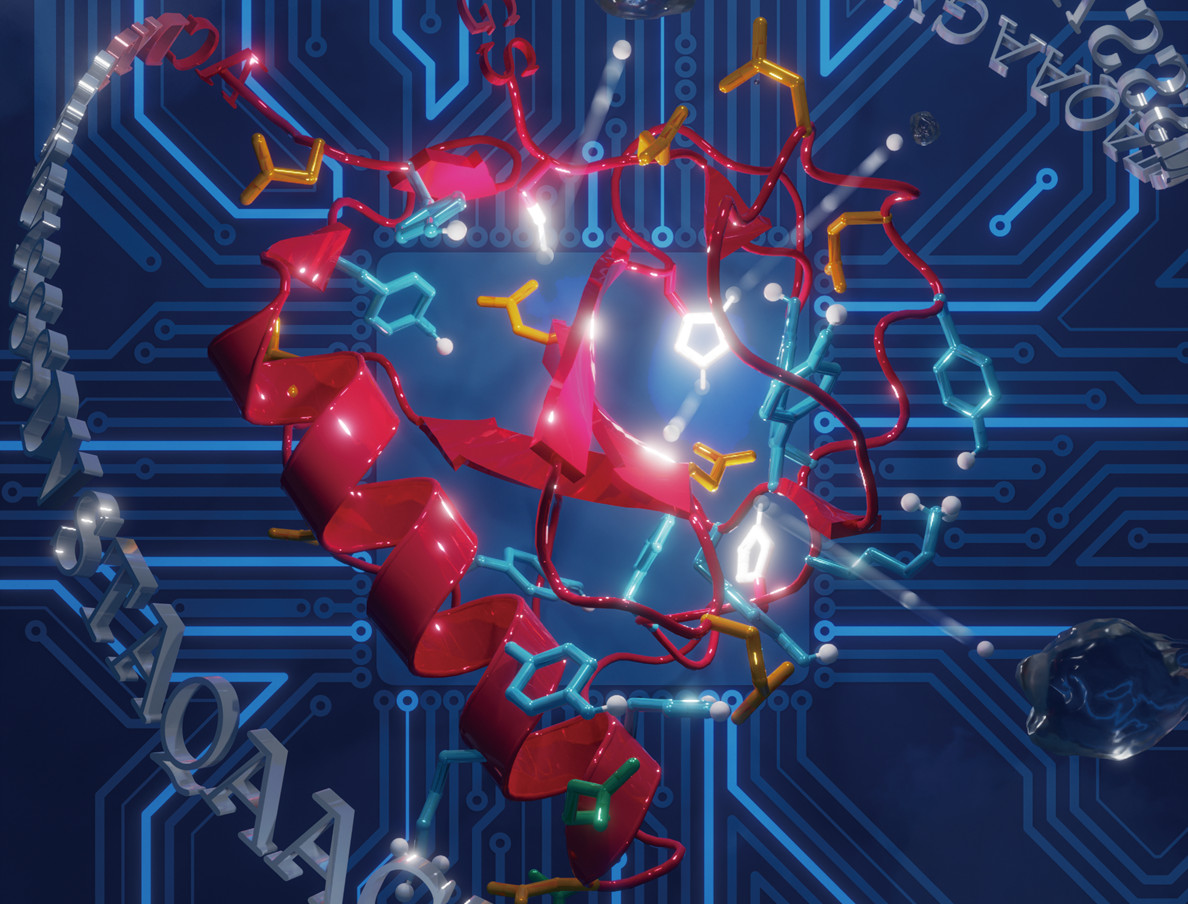
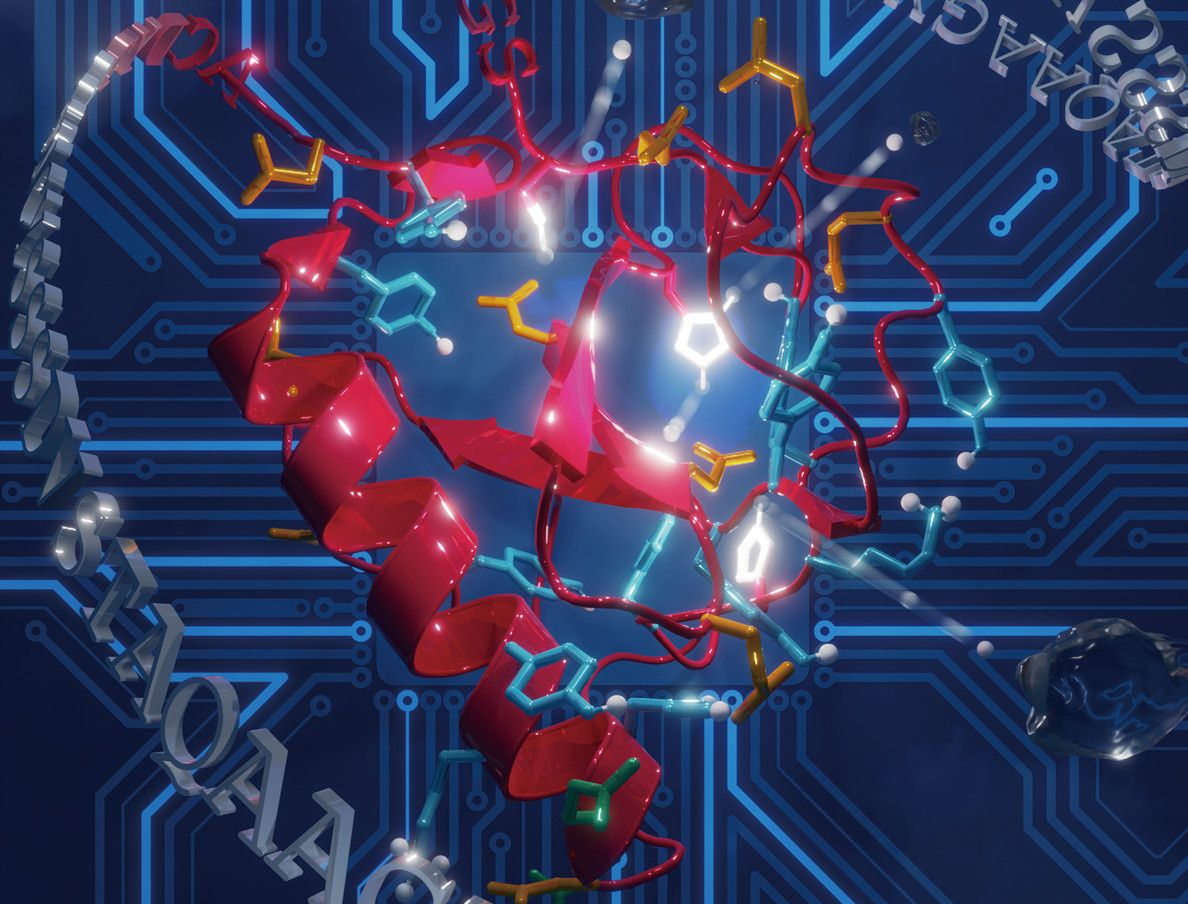
Mark Nature Communications paper as published (DOI, drop in-press)

diff --git a/index.html b/index.html
@@ -9,7 +9,7 @@
   <link href="https://fonts.googleapis.com/css2?family=Roboto:wght@400;700&display=swap" rel="stylesheet">
 
   <title>Shijie Xu - Bioinformatics & Deep Learning Researcher</title>
-  <meta name="description" content="Shijie Xu is a postdoctoral researcher at Hokkaido University, specializing in bioinformatics, computational chemistry, protein structure prediction, and deep learning for metal binding sites.">
+  <meta name="description" content="Shijie Xu — postdoctoral researcher at Hokkaido University: bioinformatics, computational chemistry, protein structure prediction, and deep learning.">
   <meta name="keywords" content="Shijie Xu, bioinformatics, protein structure prediction, metal binding sites, deep learning, molecular simulation, computational chemistry, pKa prediction, Hokkaido University">
   <meta name="author" content="Shijie Xu">
   <link rel="canonical" href="https://xu-shi-jie.github.io/">
@@ -22,13 +22,17 @@
   <meta property="og:title" content="Shijie Xu - Bioinformatics & Deep Learning Researcher">
   <meta property="og:description" content="Postdoctoral researcher specializing in bioinformatics, computational chemistry, and deep learning at Hokkaido University.">
   <meta property="og:image" content="https://xu-shi-jie.github.io/docs/background-pkalm.jpg">
-  
+  <meta property="og:image:width" content="1188">
+  <meta property="og:image:height" content="904">
+  <meta property="og:image:alt" content="Shijie Xu — research background">
+
   <!-- Twitter Card Meta Tags -->
   <meta name="twitter:card" content="summary_large_image">
   <meta name="twitter:url" content="https://xu-shi-jie.github.io/">
   <meta name="twitter:title" content="Shijie Xu - Bioinformatics & Deep Learning Researcher">
   <meta name="twitter:description" content="Postdoctoral researcher specializing in bioinformatics, computational chemistry, and deep learning at Hokkaido University.">
   <meta name="twitter:image" content="https://xu-shi-jie.github.io/docs/background-pkalm.jpg">
+  <meta name="twitter:image:alt" content="Shijie Xu — research background">
   <style>
     :root {
       --text-color: #222;
@@ -88,7 +92,7 @@
       position: relative;
       width: 100%;
       height: 120px;
-      background-image: url('docs/background-pkalm.jpg'); /* 替换成你的封面图路径 */
+      background-image: url('docs/background-pkalm.webp'); /* 替换成你的封面图路径 */
       background-size: cover;
       background-position: center;
     }
@@ -329,12 +333,11 @@
       // No need to update content
     }
 
-    // Initialize theme
-    document.addEventListener('DOMContentLoaded', () => {
-      const savedTheme = localStorage.getItem('theme') || 'light';
-      document.documentElement.setAttribute('data-theme', savedTheme);
-      updateButtonText();
-    });
+    // Apply the saved theme synchronously: this script sits in <head>, so
+    // setting data-theme here (rather than on DOMContentLoaded, which fires
+    // after the first paint) avoids the flash of the light theme when
+    // navigating between pages in dark mode.
+    document.documentElement.setAttribute('data-theme', localStorage.getItem('theme') || 'light');
   </script>
   
   <!-- Structured Data (Schema.org JSON-LD) for SEO -->
@@ -418,7 +421,13 @@
   <section id="pub">
   <h2>Publications & preprints</h2>
     <ol id="pub-list" class="pub-list" aria-live="polite">
-      <!-- publications will be rendered here from data/pubs.json -->
+      <!--PUBS:START auto-generated by data/render_pubs.py; do not edit-->
+      <li><span><u>Shijie Xu</u>, Akira Onoda*, </span><span> “Probe-Based Identification of Metal-Binding Sites Using Deep Learning Representations”, </span><em><a href="https://doi.org/10.1038/s41467-026-74657-x">Nat. Commun.</a></em><span> <strong>2026</strong></span><span style="margin-left:0.5rem;opacity:0.8">(IF: 18.1)</span></li>
+      <li><span><u>Shijie Xu</u>, Ke Xu, Akira Onoda*, </span><span> “Accurate Prediction of Enzymatic Degradation of Plastics by Language Models”, </span><em><a href="https://doi.org/10.1093/chemle/upag022">Chem. Lett.</a></em><span> 55(2): upag022, <strong>2026</strong></span><span style="margin-left:0.5rem;opacity:0.8">(IF: 1.1)</span></li>
+      <li><span><u>Shijie Xu</u>, Akira Onoda*, </span><span> “Accurate and Rapid Prediction of Protein p<i>K</i><sub>a</sub>: Protein Language Models Reveal the Sequence-p<i>K</i><sub>a</sub> Relationship”, </span><em><a href="https://doi.org/10.1021/acs.jctc.4c01288">J. Chem. Theory Comput.</a></em><span> 21(7): 3752-3764, <strong>2025</strong></span><span style="margin-left:0.5rem;opacity:0.8">(TC: 5, IF: 5.5)</span></li>
+      <li><span><u>Shijie Xu</u>, Akira Onoda*, </span><span> “PsiPartition: Improved Site Partitioning for Genomic Data by Parameterized Sorting Indices and Bayesian Optimization”, </span><em><a href="https://doi.org/10.1007/s00239-024-10215-7">J. Mol. Evol.</a></em><span> 92: 874-890, <strong>2024</strong></span><span style="margin-left:0.5rem">(<a href="https://www.hokudai.ac.jp/news/2024/12/post-1700.html">プレスリリース</a> | <a href="https://www.global.hokudai.ac.jp/blog/streamlining-genetic-analysis-for-phylogenetic-studies/">Press release</a> | <a href="https://vimeo.com/1042840720?share=copy">Video</a>)</span><span style="margin-left:0.5rem;opacity:0.8">(IF: 1.8)</span></li>
+      <li><span><u>Shijie Xu</u>, Akira Onoda*, </span><span> “Accurate and Fast Prediction of Intrinsically Disordered Protein by Multiple Protein Language Models and Ensemble Learning”, </span><em><a href="https://doi.org/10.1021/acs.jcim.3c01202">J. Chem. Inf. Model.</a></em><span> 64(7): 2901-2911, <strong>2024</strong></span><span style="margin-left:0.5rem;opacity:0.8">(TC: 25, IF: 5.3)</span></li>
+      <!--PUBS:END-->
     </ol>
     <p style="font-size: 0.85rem; color: #888; font-style: italic; margin-top: 0.5rem;">*Data sourced from Crossref and automatically updated via script.</p>
   </section>
@@ -603,7 +612,8 @@
         const pages = pageRange ? (': ' + pageRange) : '';
         const year = (p.publication_date || '').toString().slice(0, 4);
         const inPress = p.in_press ? ' <em>(in press)</em>' : '';
-        meta.innerHTML = ' ' + volIssue + pages + inPress + ', <strong>' + year + '</strong>';
+        const lead = (volIssue + pages + inPress).trim();
+        meta.innerHTML = ' ' + (lead ? lead + ', ' : '') + '<strong>' + year + '</strong>';
 
         li.appendChild(authors);
         li.appendChild(title);

diff --git a/data/render_pubs.py b/data/render_pubs.py
@@ -1,0 +1,136 @@
+#!/usr/bin/env python3
+"""
+Server-side render the publication list into index.html at build time.
+
+The homepage renders publications client-side from data/pubs.json (see the
+renderPubs() script in index.html), which is great for interactivity but
+leaves the initial HTML's <ol id="pub-list"> empty — so no-JS crawlers and
+some social scrapers see no publications.
+
+This script injects an equivalent *static* <li> list between the
+PUBS:START / PUBS:END markers inside that <ol>. The client-side JS still runs
+on top (it wipes and re-renders the list with copy-citation buttons + emits
+ScholarlyArticle JSON-LD), so behaviour for real users is unchanged — this is
+pure progressive enhancement / SEO hardening.
+
+Idempotent: re-running replaces the previously injected block.
+Run from anywhere; paths resolve relative to this file.
+
+Usage: python3 render_pubs.py
+"""
+import html
+import json
+import re
+from pathlib import Path
+
+ROOT = Path(__file__).resolve().parent.parent
+INDEX = ROOT / "index.html"
+PUBS = ROOT / "data" / "pubs.json"
+JOURNALS = ROOT / "data" / "journals.json"
+
+OWNER = "Shijie Xu"
+START = "<!--PUBS:START auto-generated by data/render_pubs.py; do not edit-->"
+END = "<!--PUBS:END-->"
+
+
+def lang(field):
+    """researchmap multilingual field -> string (prefer en)."""
+    if isinstance(field, dict):
+        return field.get("en") or field.get("ja") or ""
+    return field or ""
+
+
+def fmt(s):
+    """Escape text, then restore the pKa typography (matches the JS fmt())."""
+    return html.escape(s or "").replace("pKa", "p<i>K</i><sub>a</sub>")
+
+
+def authors_html(people):
+    out = []
+    for a in people or []:
+        name = a.get("name", "")
+        is_owner = name.rstrip("*").strip() == OWNER
+        esc = html.escape(name)
+        out.append(f"<u>{esc}</u>" if is_owner else esc)
+    return ", ".join(out)
+
+
+def render_li(p, journals):
+    journal_name = lang(p.get("publication_name"))
+    dois = (p.get("identifiers") or {}).get("doi") or []
+    doi = dois[0] if dois else None
+    doi_link = f"https://doi.org/{doi}" if doi else None
+
+    authors = f"<span>{authors_html((p.get('authors') or {}).get('en'))}, </span>"
+    title = f"<span> “{fmt(lang(p.get('paper_title')))}”, </span>"
+
+    # journal (em)
+    if journal_name and "biorxiv" in journal_name.lower():
+        img = ('<img src="docs/biorxiv.svg" alt="bioRxiv" class="biorxiv-icon" '
+               'style="height:1.2em;vertical-align:middle">')
+        inner = f'<a href="{html.escape(doi_link)}">{img}</a>' if doi_link else img
+    else:
+        jmeta = journals.get(journal_name, {})
+        jlabel = html.escape(jmeta.get("abbreviation") or journal_name or "")
+        inner = f'<a href="{html.escape(doi_link)}">{jlabel}</a>' if doi_link else jlabel
+    journal = f"<em>{inner}</em>"
+
+    # meta (volume/issue/pages/in-press/year)
+    vol = p.get("volume") or ""
+    num = p.get("number") or ""
+    vol_issue = (vol + (f"({num})" if num else "")) if vol else ""
+    start_pg = p.get("starting_page") or ""
+    end_pg = p.get("ending_page") or ""
+    page_range = (f"{start_pg}-{end_pg}" if end_pg else start_pg) if start_pg else ""
+    pages = f": {page_range}" if page_range else ""
+    in_press = " <em>(in press)</em>" if p.get("in_press") else ""
+    year = str(p.get("publication_date") or "")[:4]
+    lead = f"{html.escape(vol_issue)}{html.escape(pages)}{in_press}".strip()
+    sep = f"{lead}, " if lead else ""
+    meta = f"<span> {sep}<strong>{html.escape(year)}</strong></span>"
+
+    parts = [authors, title, journal, meta]
+
+    # other links (press release, video, ...)
+    others = p.get("others")
+    if isinstance(others, dict) and others:
+        links = " | ".join(
+            f'<a href="{html.escape(href)}">{html.escape(label)}</a>'
+            for label, href in others.items()
+        )
+        parts.append(f'<span style="margin-left:0.5rem">({links})</span>')
+
+    # citation count / impact factor
+    tc = p.get("is_referenced_by_count")
+    jf = (journals.get(journal_name) or {}).get("impact factor")
+    badges = []
+    if isinstance(tc, int) and tc > 0:
+        badges.append(f"TC: {tc}")
+    if jf:
+        badges.append(f"IF: {jf}")
+    if badges:
+        parts.append(f'<span style="margin-left:0.5rem;opacity:0.8">({html.escape(", ".join(badges))})</span>')
+
+    return "      <li>" + "".join(parts) + "</li>"
+
+
+def main():
+    pubs = json.loads(PUBS.read_text(encoding="utf-8"))
+    journals = {}
+    if JOURNALS.exists():
+        journals = json.loads(JOURNALS.read_text(encoding="utf-8"))
+
+    items = "\n".join(render_li(p, journals) for p in pubs)
+    block = f"{START}\n{items}\n      {END}"
+
+    text = INDEX.read_text(encoding="utf-8")
+    ol_re = re.compile(r'(<ol id="pub-list"[^>]*>)(.*?)(</ol>)', re.DOTALL)
+    if not ol_re.search(text):
+        raise SystemExit('error: <ol id="pub-list"> not found in index.html')
+    new = ol_re.sub(lambda m: f"{m.group(1)}\n      {block}\n    {m.group(3)}", text)
+    INDEX.write_text(new, encoding="utf-8")
+    print(f"Injected {len(pubs)} publication(s) into index.html.")
+
+
+if __name__ == "__main__":
+    main()

diff --git a/cv-latex/cv.tex b/cv-latex/cv.tex
@@ -70,8 +70,8 @@ Bioinformatics, Deep Learning, Computational Chemistry, Computer Science, Mathem
 % BEGIN PUBLICATIONS (auto-generated)
 % Do not edit by hand: regenerated from ../data/pubs.json at build time.
 \begin{enumerate}
+    \item \underbar{Shijie Xu} and Akira Onoda*. ``Probe-Based Identification of Metal-Binding Sites Using Deep Learning Representations.'' \textit{Nature Communications}, \textbf{2026}, \emph{DOI:} \url{https://doi.org/10.1038/s41467-026-74657-x}
     \item \underbar{Shijie Xu}, Ke Xu, and Akira Onoda*. ``Accurate Prediction of Enzymatic Degradation of Plastics by Language Models.'' \textit{Chemistry Letters} 55(2): upag022, \textbf{2026}, \emph{DOI:} \url{https://doi.org/10.1093/chemle/upag022}
-    \item \underbar{Shijie Xu} and Akira Onoda*. ``Probe-Based Identification of Metal-Binding Sites Using Deep Learning Representations.'' \textit{Nature Communications} (in press), \textbf{2026}, \emph{DOI:} \url{https://doi.org/10.1101/2025.10.04.680417}
     \item \underbar{Shijie Xu} and Akira Onoda*. ``Accurate and Rapid Prediction of Protein \pKa{}: Protein Language Models Reveal the Sequence-\pKa{} Relationship.'' \textit{Journal of Chemical Theory and Computation} 21(7): 3752--3764, \textbf{2025}, \emph{DOI:} \url{https://doi.org/10.1021/acs.jctc.4c01288}
     \item \underbar{Shijie Xu} and Akira Onoda*. ``PsiPartition: Improved Site Partitioning for Genomic Data by Parameterized Sorting Indices and Bayesian Optimization.'' \textit{Journal of Molecular Evolution} 92: 874--890, \textbf{2024}, \emph{DOI:} \url{https://doi.org/10.1007/s00239-024-10215-7}
     \item \underbar{Shijie Xu} and Akira Onoda*. ``Accurate and Fast Prediction of Intrinsically Disordered Protein by Multiple Protein Language Models and Ensemble Learning.'' \textit{Journal of Chemical Information and Modeling} 64(7): 2901--2911, \textbf{2024}, \emph{DOI:} \url{https://doi.org/10.1021/acs.jcim.3c01202}